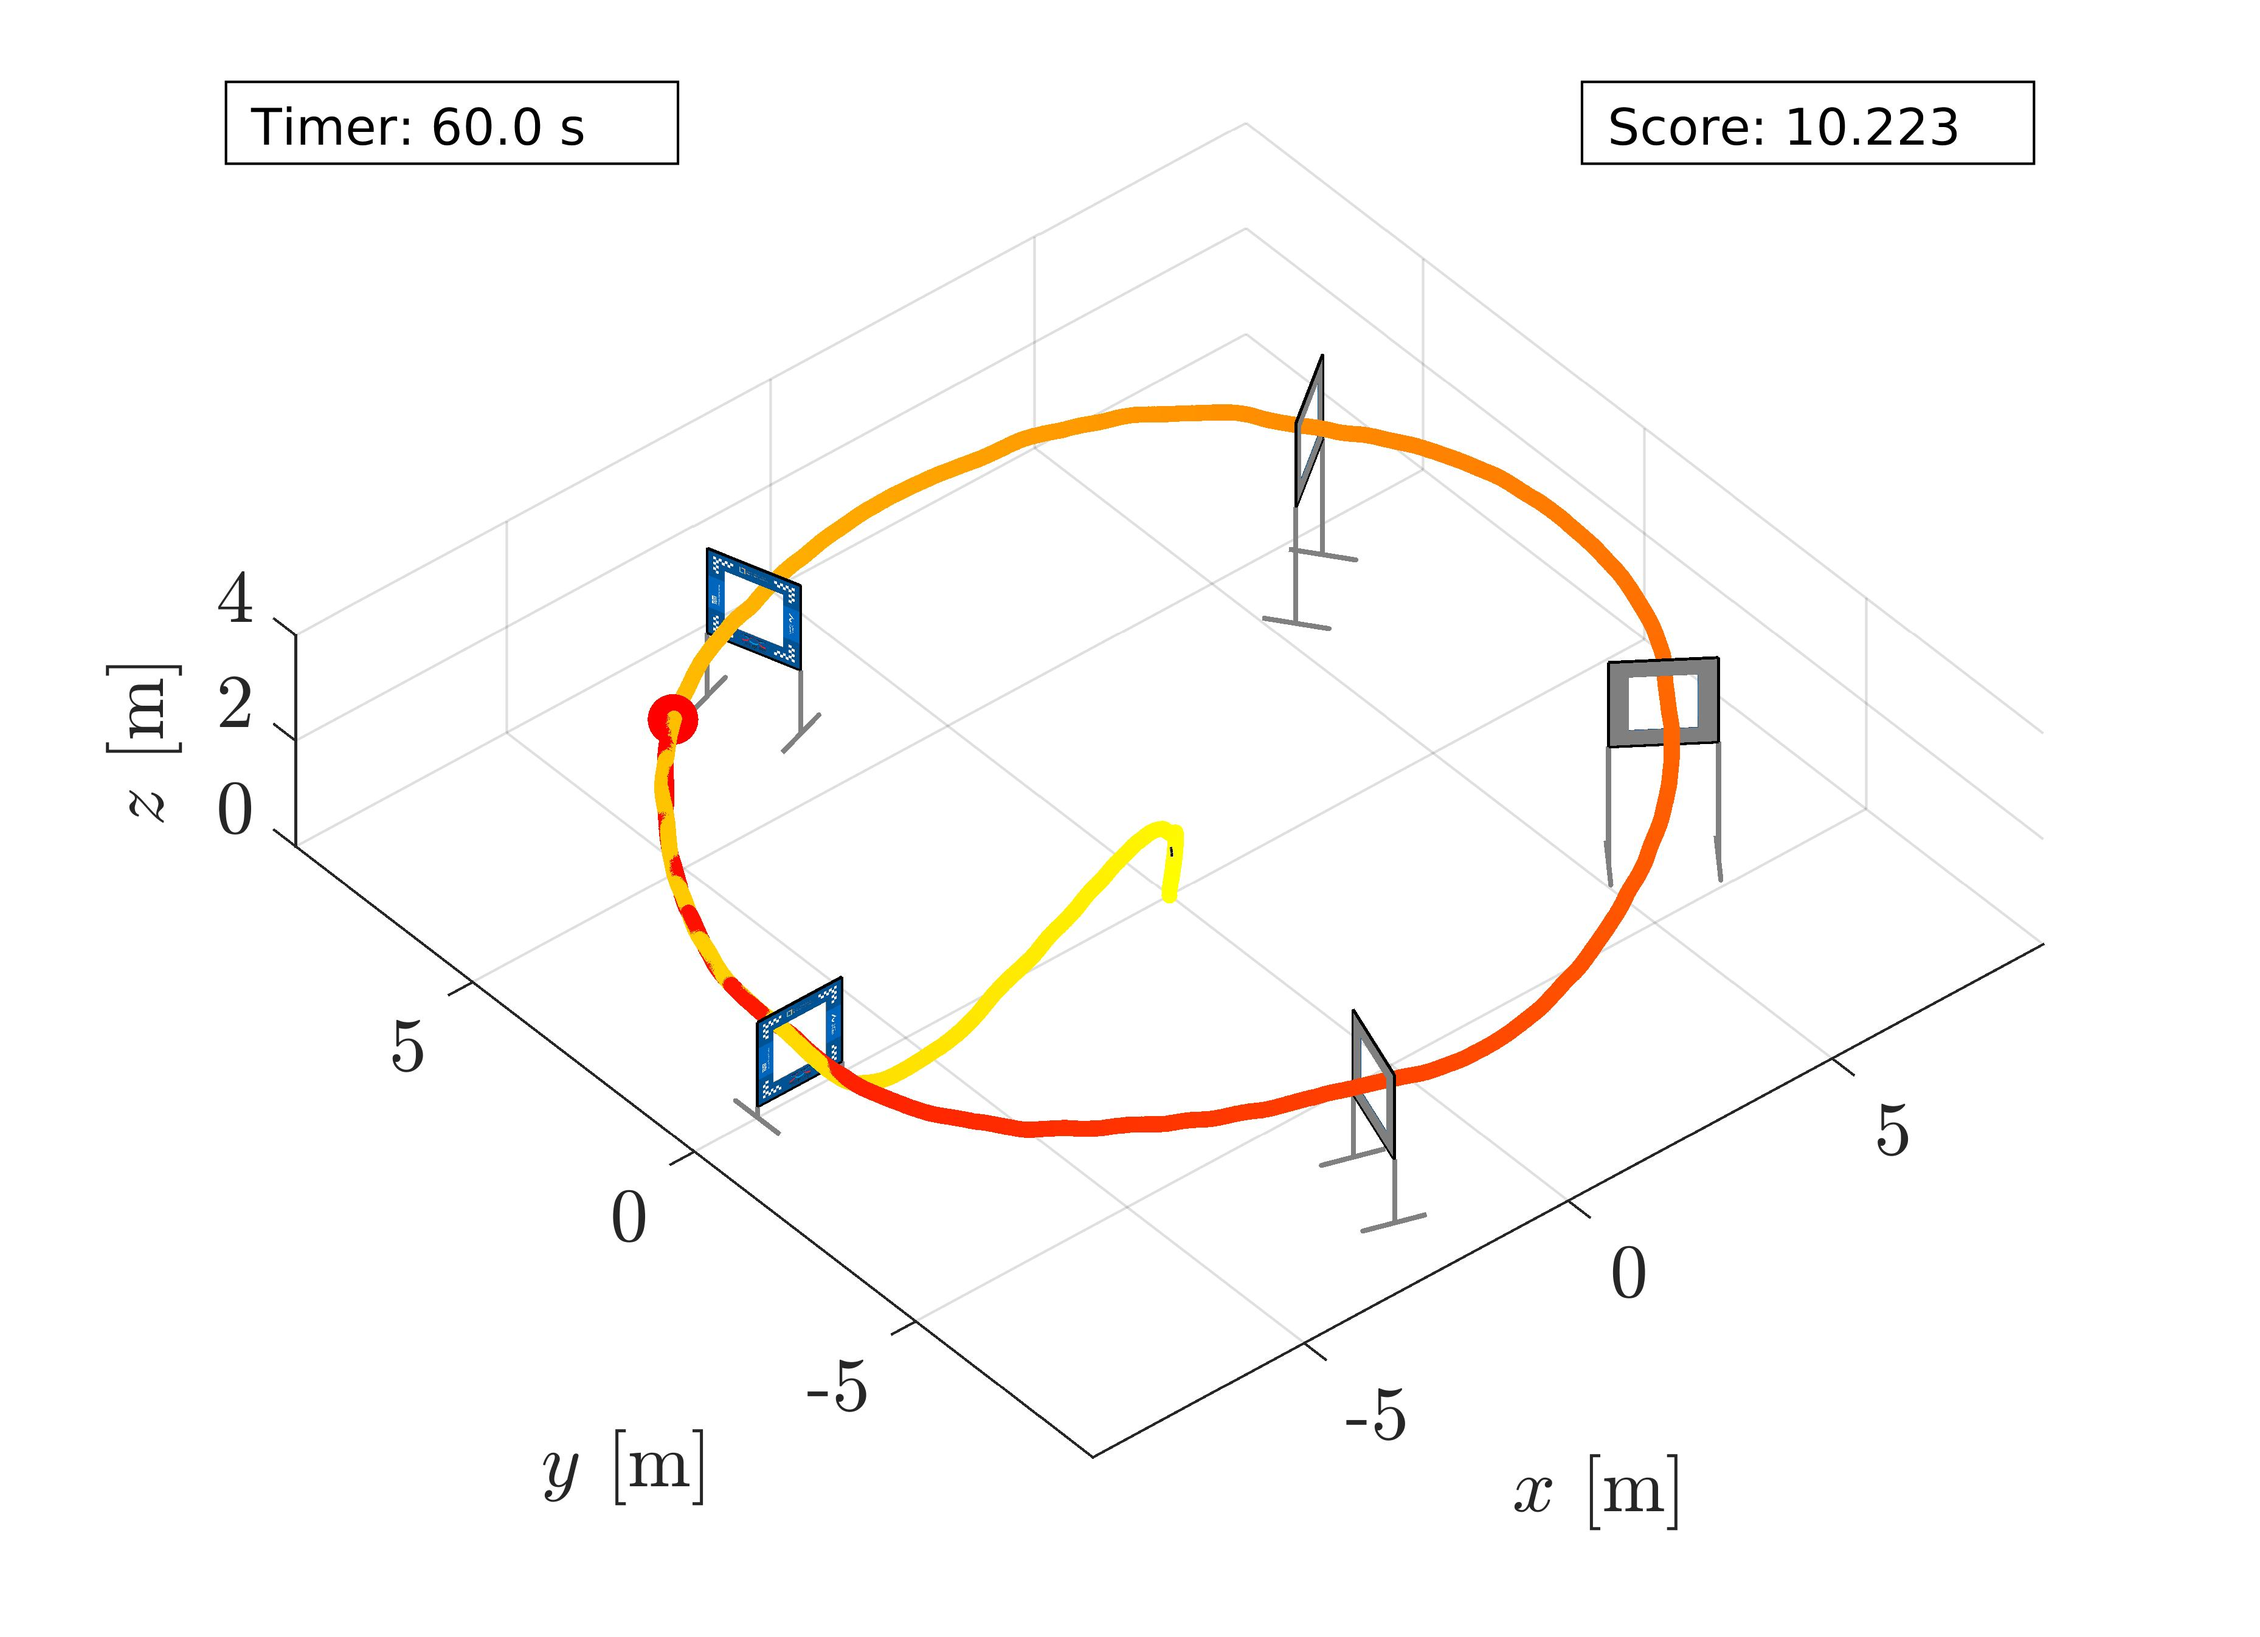
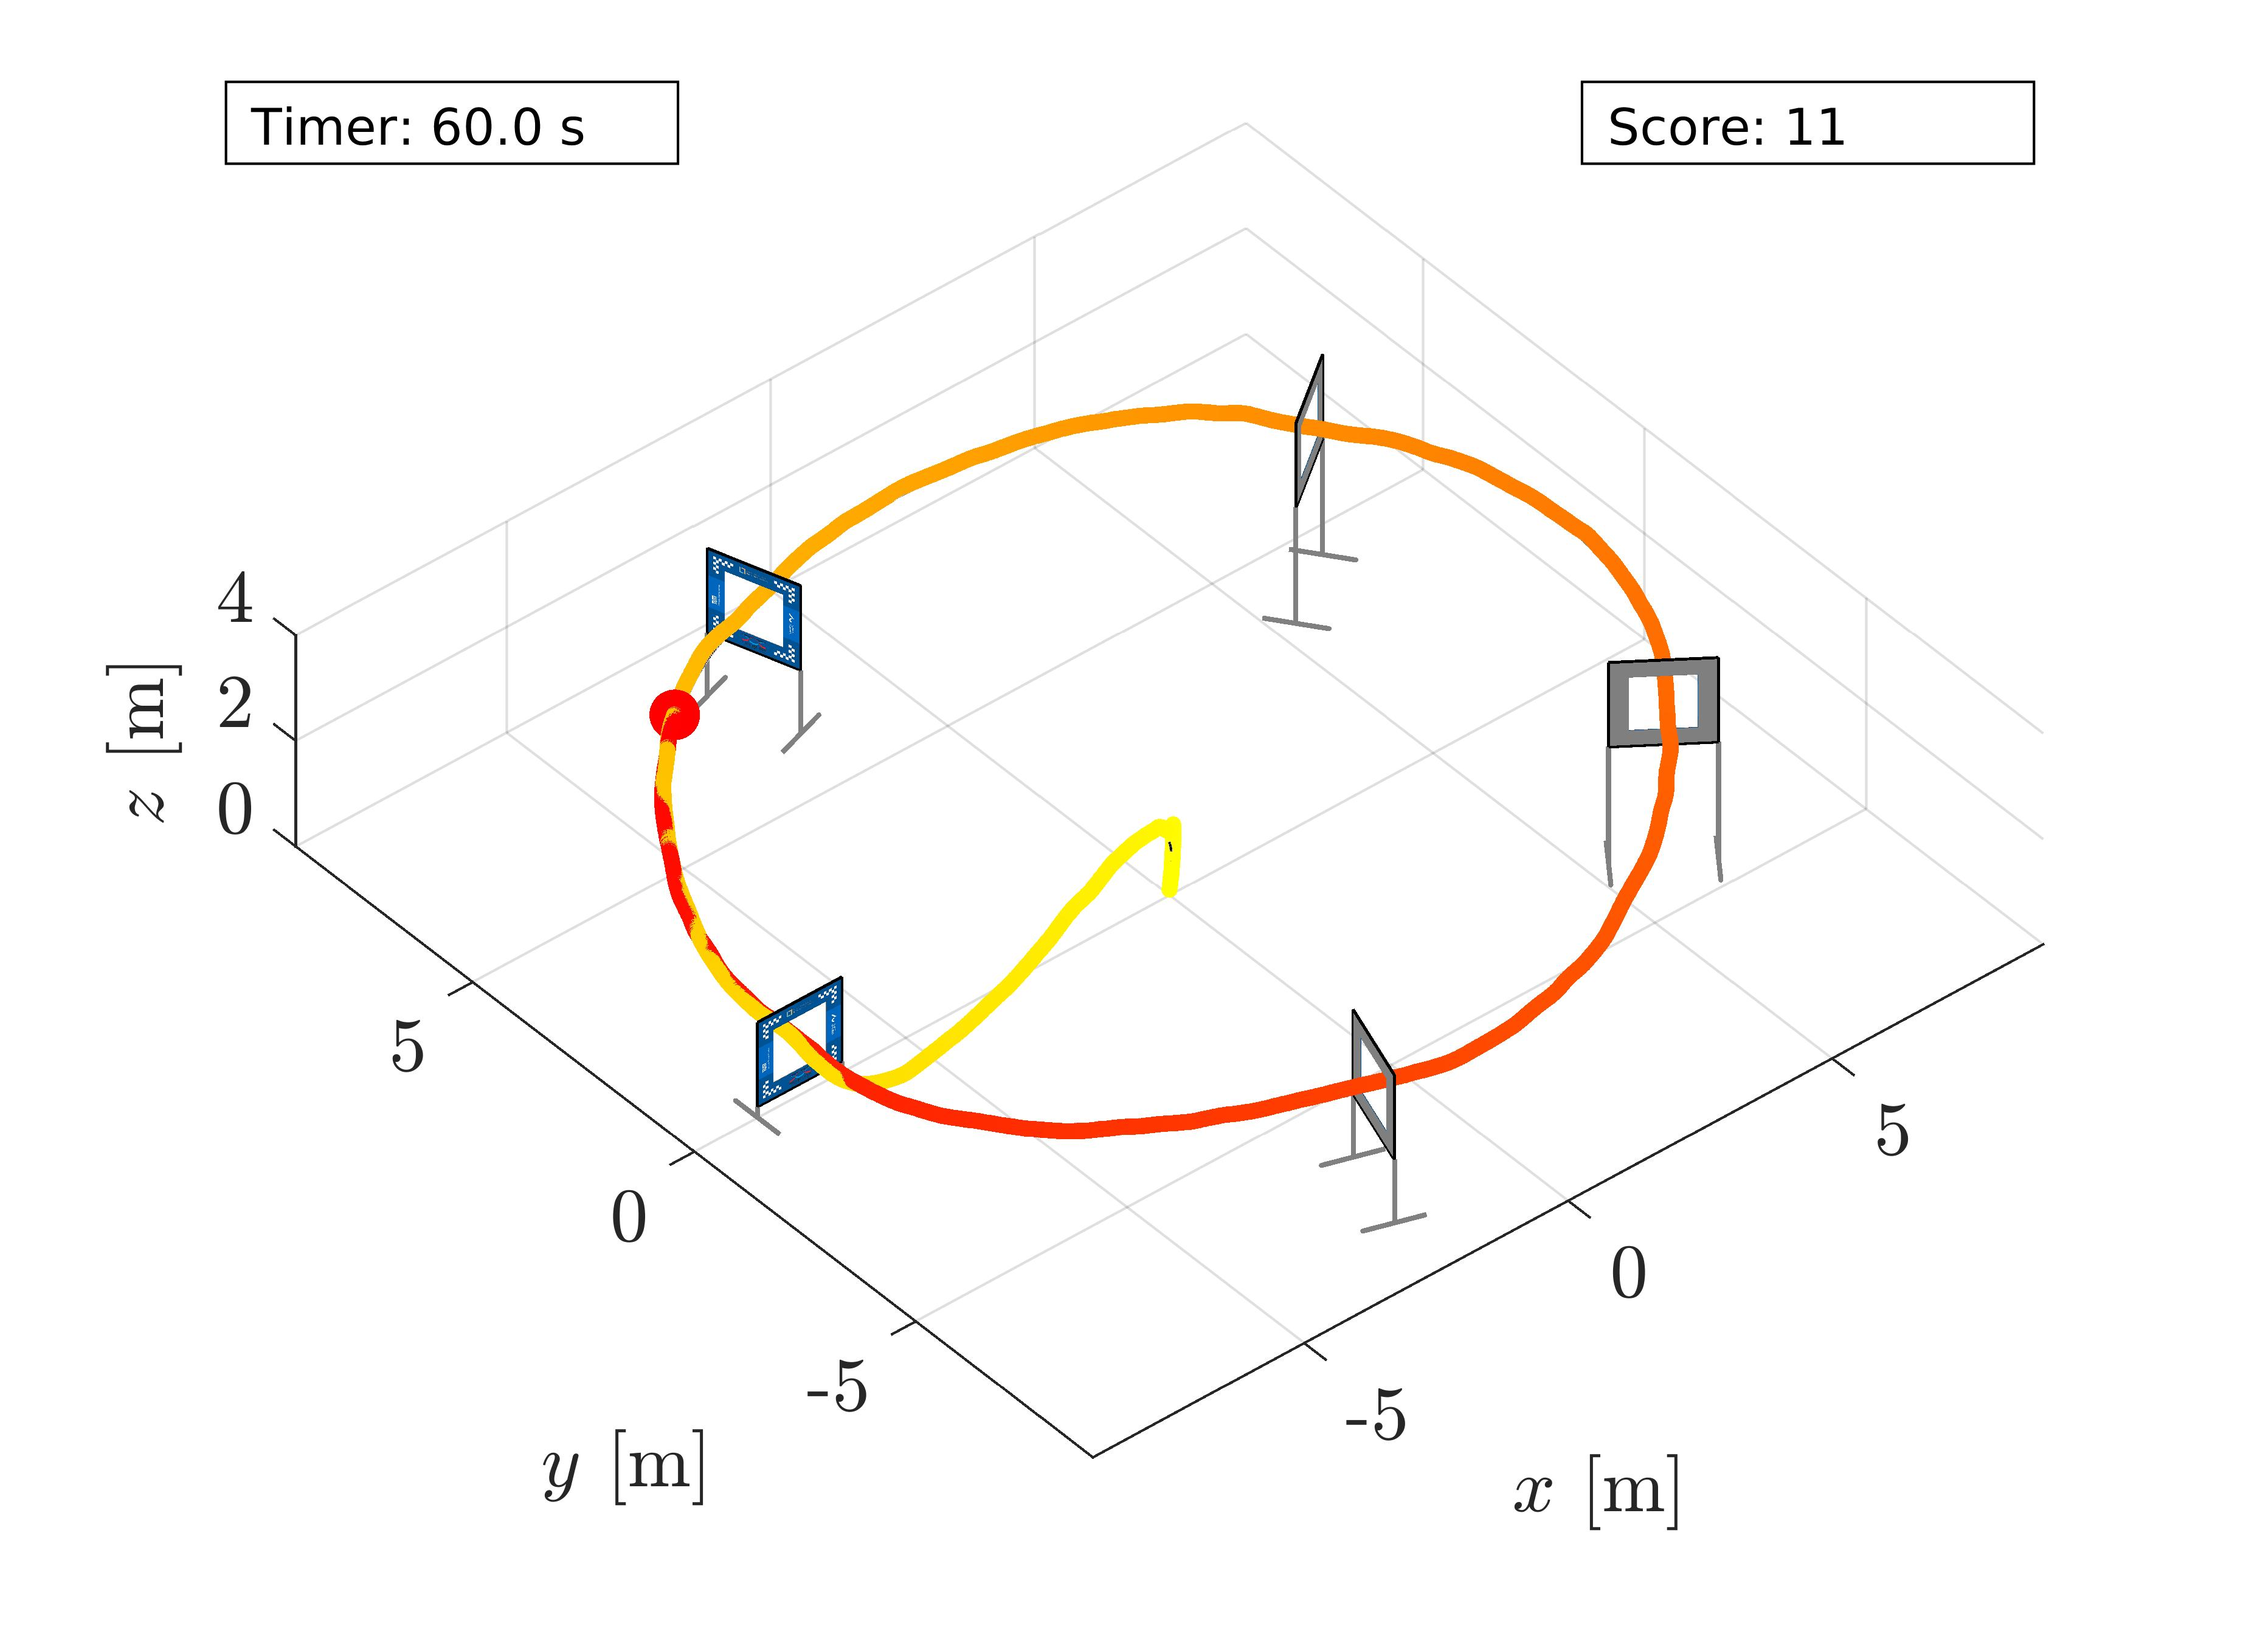
Changed initial state
- initial state is changed to face the first gate
- code cleaning

diff --git a/MAIN.m b/MAIN.m
@@ -4,7 +4,7 @@ clc
 clear all
 close all
 
-global dt desired_speed enable_animation;
+global dt initial_state desired_speed enable_animation;
 
 %% Changeable parameters (can be adjusted by participants)
 
@@ -18,9 +18,12 @@ simulation_time = 60; % [s]
 dt = 0.001;
 kend = simulation_time/dt;
 
+initial_state = [0 0 0.1 0 0 0 0 0 pi 0 0 0];
+
 %% Prealocate variables
 
 odom = zeros(kend, 12);
+odom(1,:) = initial_state;
 
 t = dt*(1:kend)';
 
@@ -45,17 +48,6 @@ for k = 1:kend
     odom(k + 1,:) = uav(command);
     
 end
-
-% figure(1)
-% hold on
-% grid on
-% % plot(0:kend, 180/pi*command(:,1), 'r:');
-% % plot(0:kend, 180/pi*command(:,2), 'g:');
-% plot(0:kend, 180/pi*pose_d(1:kend+1,4), 'b:');
-% % plot(0:kend, 180/pi*odom(:,7), 'r-');
-% % plot(0:kend, 180/pi*odom(:,8), 'g-');
-% plot(0:kend, 180/pi*odom(:,9), 'b-');
-% hold off
 
 %% Show animation
 

diff --git a/uav.m b/uav.m
@@ -2,7 +2,7 @@ function pose = uav(command)
 
 %% Parameters
 
-global dt;
+global dt initial_state;
 
 %% Initialize gains
 
@@ -14,13 +14,6 @@ Kd_pitch = 5;
 
 Kp_yaw = 30;
 Kd_yaw = 5;
-
-%% Initial state
-
-x_init = 0;
-y_init = 0;
-z_init = 0.1;
-yaw_init = 0;
 
 %% Initialize constants
 
@@ -39,11 +32,7 @@ g = 9.81;   % Gravitational acceleration
 persistent state;
 
 if isempty(state)
-    state = zeros(1, 12);
-    state(1) = x_init;
-    state(2) = y_init;
-    state(3) = z_init;
-    state(9) = yaw_init;
+    state = initial_state;
 end
 
 %% Position controller

diff --git a/trajectory_generator.m b/trajectory_generator.m
@@ -1,6 +1,6 @@
 function [pose_d, velocity_d] = trajectory_generator(dt)
 
-global desired_speed;
+global desired_speed initial_state;
 
 %% Read gates' poses
 
@@ -11,7 +11,7 @@ numGates = size(gates, 1);
 
 %% Calculate waypoints
 
-waypoints(1,:) = [0 0 0 0];
+waypoints(1,:) = initial_state([1:3,9]);
 waypoints(2,:) = [0 0 1 atan2(gates(1,2), gates(1,1))];
 for i=0:50
     currentGate = rem(i, numGates) + 1;
